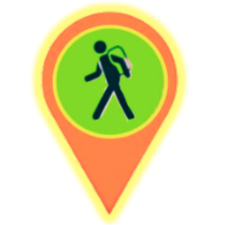
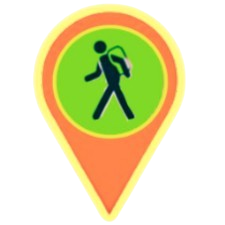
Se agregan marcadores con íconos en vista de conductor

diff --git a/src/components/Taxis/Conductor.jsx b/src/components/Taxis/Conductor.jsx
@@ -5,6 +5,7 @@ import { useAuth0 } from "@auth0/auth0-react";
 import axios from 'axios';
 import ConductorRender from './ConductorRender'; // tu render (el UI que pegaste)
 import taxiIcon from '../../assets/taxi_marker.png'; // si está en otra ruta ajusta
+import userIcon from '../../assets/user_marker.png'; // si está en otra ruta ajusta
 // NOTA: asegúrate de tener REACT_APP_GOOGLE_MAPS_API_KEY y REACT_APP_SOCKET_URL en .env
 
 const ZOCALO = { lat: 19.432607, lng: -99.133209 };
@@ -32,6 +33,8 @@ const Conductor = ({
   const pickupMarkerRef = useRef(null);
   const directionsRendererRef = useRef(null);
   const directionsServiceRef = useRef(null);
+  const driverMarkerRef = useRef(null);
+  const destMarkerRef = useRef(null);
 
   /* --------------------------
      Helpers: cargar Google Maps
@@ -94,6 +97,73 @@ const Conductor = ({
     // NOTE: intencionalmente no ponemos dependencia para que solo se intente al montar
   }, []);
 
+
+  // --- Pegar justo después de inicializar el mapa (useEffect loadGoogleMaps)
+useEffect(() => {
+  if (!mapRef.current || !window.google) return;
+
+  const marker = new window.google.maps.Marker({
+                  map: mapRef.current,
+                  title:  'Origen',
+                  icon: {
+                    url: userIcon,
+                    scaledSize: new window.google.maps.Size(44, 44),
+                  },
+                });
+  
+  markersRef.current.push(marker);
+                
+
+
+  // crear marker si no existe
+  if (!driverMarkerRef.current) {
+    driverMarkerRef.current = new window.google.maps.Marker({
+      map: mapRef.current,
+      title: 'Conductor',
+      icon: taxiIcon ? { url: taxiIcon, scaledSize: new window.google.maps.Size(40, 40) } : undefined,
+    });
+  }
+
+  // función que actualiza posición (usa userCoords si existe, si no centro del mapa)
+  const updateDriverPos = () => {
+    const pos = userCoords && userCoords.lat && userCoords.lng
+      ? { lat: Number(userCoords.lat), lng: Number(userCoords.lng) }
+      : (mapRef.current.getCenter ? mapRef.current.getCenter().toJSON() : ZOCALO);
+
+    try {
+      driverMarkerRef.current.setPosition(pos);
+      driverMarkerRef.current.setMap(mapRef.current);
+    } catch (e) {
+      console.warn('[Conductor] updateDriverPos error', e);
+    }
+  };
+
+  // actualizar una vez y cada vez que cambie userCoords
+  updateDriverPos();
+
+  return () => {
+    // no removemos marker aquí (lo queremos persistente), solo cleanup si desmonta componente
+    // si prefieres removerlo, descomenta:
+    // try { if (driverMarkerRef.current) { driverMarkerRef.current.setMap(null); driverMarkerRef.current = null; } } catch(e){}
+  };
+// eslint-disable-next-line react-hooks/exhaustive-deps
+}, [mapRef.current, googleMapsLoaded]);
+
+
+useEffect(() => {
+  if (!driverMarkerRef.current) return;
+  if (!userCoords) return;
+  try {
+    driverMarkerRef.current.setPosition({ lat: Number(userCoords.lat), lng: Number(userCoords.lng) });
+    driverMarkerRef.current.setMap(mapRef.current);
+  } catch (e) {
+    console.warn('[Conductor] error actualizando driverMarker por userCoords', e);
+  }
+}, [userCoords]);
+
+
+
+
   /* --------------------------
      Inicializar Directions (cuando esté el mapa)
      -------------------------- */
@@ -106,6 +176,12 @@ const Conductor = ({
         polylineOptions: { strokeWeight: 6, strokeOpacity: 0.95 },
       });
       directionsRendererRef.current.setMap(mapRef.current);
+    }
+    else {
+      // reafirmar la opción para evitar que Google dibuje markers por su cuenta
+      try {
+        directionsRendererRef.current.setOptions({ suppressMarkers: true });
+      } catch (e) { /* noop */ }
     }
   }, [mapRef.current, googleMapsLoaded]);
 
@@ -161,7 +237,7 @@ const Conductor = ({
                   map: mapRef.current,
                   title: data.originAdress || 'Origen',
                   icon: {
-                    url: taxiIcon,
+                    url: userIcon,
                     scaledSize: new window.google.maps.Size(44, 44),
                   },
                 });
@@ -232,97 +308,137 @@ const Conductor = ({
   }, []);
 
   /* --------------------------
-     Cuando se selecciona un viaje (consultedTravel), mostrar la ruta
-     -------------------------- */
-  useEffect(() => {
-    if (consultedTravel === null) return;
-    const travel = travelData[consultedTravel];
-    if (!travel) return;
-    if (!window.google || !mapRef.current) return;
-    if (!directionsServiceRef.current) directionsServiceRef.current = new window.google.maps.DirectionsService();
-    if (!directionsRendererRef.current) {
-      directionsRendererRef.current = new window.google.maps.DirectionsRenderer({ suppressMarkers: true });
-      directionsRendererRef.current.setMap(mapRef.current);
-    }
-    // usamos originAdress/destinationAdress o coordinates si vienen
-    const origin = travel.originCoordinates || travel.originAdress;
-    const destination = travel.destinationCoordinates || travel.destinationAdress;
-    try {
-      directionsServiceRef.current.route(
-        {
-          origin,
-          destination,
-          travelMode: window.google.maps.TravelMode.DRIVING,
-        },
-        (result, status) => {
-          if (status === 'OK' || status === window.google.maps.DirectionsStatus.OK) {
-            directionsRendererRef.current.setDirections(result);
-            // opcional: posicionar marker de origen/final si quieres
-            try {
-              const leg = result.routes[0].legs[0];
-              // marcador inicio
-              if (pickupMarkerRef.current) {
-                pickupMarkerRef.current.setPosition(leg.start_location);
-              } else {
-                pickupMarkerRef.current = new window.google.maps.Marker({
-                  position: leg.start_location,
-                  map: mapRef.current,
-                  title: 'Origen',
-                });
-              }
-              // limpiar marcadores guardados (no confundas con markersRef que son de otros trips)
-            } catch (e) {
-              console.warn('No se pudo actualizar pickup marker desde directions', e);
-            }
-          } else {
-            console.error('Directions error', status);
-          }
-        }
-      );
-    } catch (e) {
-      console.warn('Error solicitando directions', e);
-    }
-  }, [consultedTravel, travelData]);
-
-
-
-  // justo en Conductor.js, dentro del componente Conductor
+   Mostrar ruta: conductor -> pickup (origen) -> destino
+   Reemplaza el useEffect antiguo con este
+   -------------------------- */
 useEffect(() => {
-  // si el mapa no existe o google maps no cargó, no hacemos nada
-  if (!mapRef || !mapRef.current) return;
-  let mounted = true;
-  const doResize = () => {
-    try {
-      if (!mounted) return;
-      if (window.google && window.google.maps && mapRef.current) {
-        // 2 pequeños timeouts para asegurar que el DOM ya aplicó el CSS y el tamaño es estable
-        setTimeout(() => {
-          try {
-            window.google.maps.event.trigger(mapRef.current, 'resize');
-            // opcional: mantener centro
-            const c = mapRef.current.getCenter && mapRef.current.getCenter();
-            if (c) mapRef.current.setCenter(c);
-          } catch (e) { /* noop */ }
-        }, 50);
-        setTimeout(() => {
-          try {
-            window.google.maps.event.trigger(mapRef.current, 'resize');
-            const c2 = mapRef.current.getCenter && mapRef.current.getCenter();
-            if (c2) mapRef.current.setCenter(c2);
-          } catch (e) { /* noop */ }
-        }, 300);
+  if (consultedTravel === null) return;
+  const travel = travelData[consultedTravel];
+  if (!travel) return;
+  if (!window.google || !mapRef.current) return;
+
+  const pickupCoords = travel.originCoordinates || travel.originAdress || null;
+  const destinationCoords = travel.destinationCoordinates || travel.destinationAdress || null;
+  const driverCoords = userCoords || (mapRef.current.getCenter ? mapRef.current.getCenter().toJSON() : null);
+
+  if (!pickupCoords || !destinationCoords || !driverCoords) {
+    console.warn('[Conductor] coords insuficientes para dibujar ruta', { driverCoords, pickupCoords, destinationCoords });
+    return;
+  }
+
+  if (!directionsServiceRef.current) directionsServiceRef.current = new window.google.maps.DirectionsService();
+  if (!directionsRendererRef.current) {
+    directionsRendererRef.current = new window.google.maps.DirectionsRenderer({
+      suppressMarkers: true,
+      polylineOptions: {
+        strokeColor: '#28d219ff',
+        strokeWeight: 6,
+        strokeOpacity: 0.95,
+      },
+    });
+    directionsRendererRef.current.setMap(mapRef.current);
+  }
+
+  try {
+    const request = {
+      origin: { lat: Number(driverCoords.lat), lng: Number(driverCoords.lng) },
+      destination: { lat: Number(destinationCoords.lat), lng: Number(destinationCoords.lng) },
+      waypoints: [
+        { location: { lat: Number(pickupCoords.lat), lng: Number(pickupCoords.lng) }, stopover: true },
+      ],
+      travelMode: window.google.maps.TravelMode.DRIVING,
+      optimizeWaypoints: false,
+    };
+
+    directionsServiceRef.current.route(request, (result, status) => {
+      if (status === 'OK' || status === window.google.maps.DirectionsStatus.OK) {
+        directionsRendererRef.current.setDirections(result);
+
+        // actualizar/crear markers: driver, pickup, destination
+        try {
+          const legs = result.routes?.[0]?.legs || [];
+          // driver marker (usa taxiIcon si existe)
+          const driverPos = { lat: Number(driverCoords.lat), lng: Number(driverCoords.lng) };
+          if (driverMarkerRef.current) {
+            driverMarkerRef.current.setPosition(driverPos);
+            driverMarkerRef.current.setMap(mapRef.current);
+          } else {
+            driverMarkerRef.current = new window.google.maps.Marker({
+              position: driverPos,
+              map: mapRef.current,
+              title: 'Conductor',
+              icon: taxiIcon ? { url: taxiIcon, scaledSize: new window.google.maps.Size(40, 40) } : undefined,
+            });
+          }
+
+          // pickup marker (origen) — usa userIcon si disponible, si no default
+          const leg = result.routes?.[0]?.legs?.[0];
+          const pickupPos = leg ? leg.start_location : { lat: Number(pickupCoords.lat), lng: Number(pickupCoords.lng) };
+          if (pickupMarkerRef.current) {
+            pickupMarkerRef.current.setPosition(pickupPos);
+            pickupMarkerRef.current.setMap(mapRef.current);
+          } else {
+            pickupMarkerRef.current = new window.google.maps.Marker({
+              position: pickupPos,
+              map: mapRef.current,
+              title: 'Origen (pickup)',
+              icon:  { url: taxiIcon, scaledSize: new window.google.maps.Size(36, 36) }, 
+            });
+          }
+          
+            // destination marker — marcador normal (sin icono custom)
+          // destination marker: END del último leg
+          let destPos;
+          if (legs.length >= 1 && legs[legs.length - 1].end_location) {
+            destPos = legs[legs.length - 1].end_location;
+          } else {
+            destPos = { lat: Number(destinationCoords.lat), lng: Number(destinationCoords.lng) };
+          }
+
+          if (destMarkerRef.current) {
+            destMarkerRef.current.setPosition(destPos);
+            destMarkerRef.current.setMap(mapRef.current);
+          } else {
+            destMarkerRef.current = new window.google.maps.Marker({
+              position: destPos,
+              map: mapRef.current,
+              title: 'Destino',
+            });
+          }
+        } catch (mkErr) {
+          console.warn('[Conductor] error actualizando markers', mkErr);
+        }
+
+        // ajustar viewport al recorrido completo
+        try {
+          const bounds = new window.google.maps.LatLngBounds();
+          const overview = result.routes?.[0]?.overview_path;
+          if (overview && overview.length) {
+            overview.forEach((p) => bounds.extend(p));
+          } else {
+            bounds.extend({ lat: Number(driverCoords.lat), lng: Number(driverCoords.lng) });
+            bounds.extend({ lat: Number(pickupCoords.lat), lng: Number(pickupCoords.lng) });
+            bounds.extend({ lat: Number(destinationCoords.lat), lng: Number(destinationCoords.lng) });
+          }
+          mapRef.current.fitBounds(bounds);
+        } catch (bErr) {
+          console.warn('[Conductor] fitBounds error', bErr);
+        }
+      } else {
+        console.error('[Conductor] Directions error', status, result);
       }
-    } catch (e) { /* noop */ }
-  };
+    });
+  } catch (e) {
+    console.warn('[Conductor] Error solicitando directions', e);
+  }
 
-  // Ejecutar inmediatamente y cuando cambie travelData
-  doResize();
+  // eslint-disable-next-line react-hooks/exhaustive-deps
+}, [consultedTravel, travelData, userCoords]);
 
-  // Re-ejecutar cuando cambien las cards (travelData) o cuando cargue googleMaps
-  // Dependencias: travelData y googleMapsLoaded
-  // (Asegúrate de incluir travelData y googleMapsLoaded en el array si lo copias)
-  return () => { mounted = false; };
-}, [travelData, googleMapsLoaded]);
+
+
+
+  
 
   /* --------------------------
      Handlers que el UI (ConductorRender) espera
@@ -356,6 +472,7 @@ useEffect(() => {
           originAddress: travel.originAdress,
           destinationAddress: travel.destinationAdress,
           coordinates: userCoords,
+          destinationCoords: userCoords,
         });
         // marcar localmente como aceptado
         setTravelData(prev => prev.map((t, i) => i === idx ? { ...t, accepted: true } : t));
